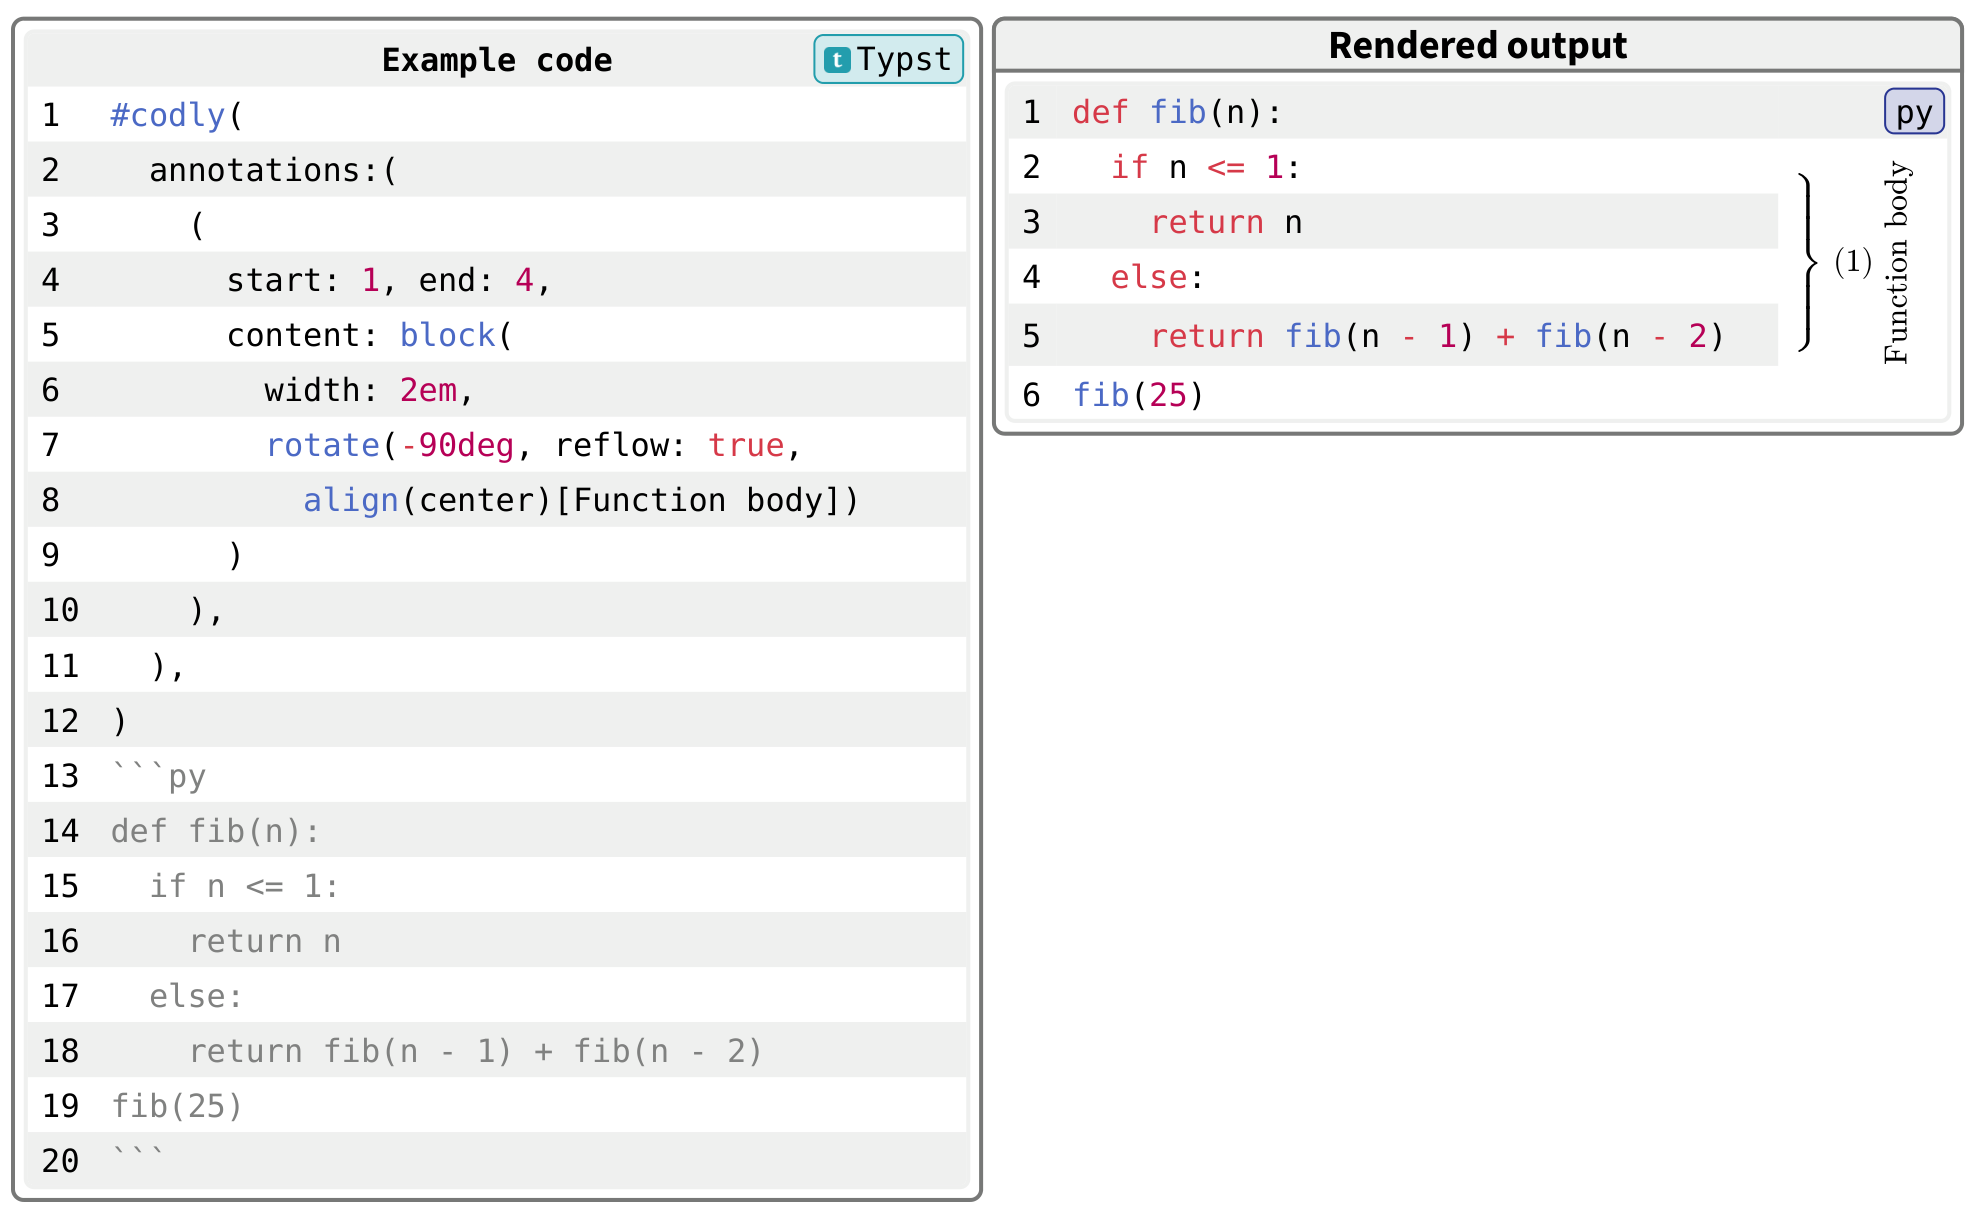
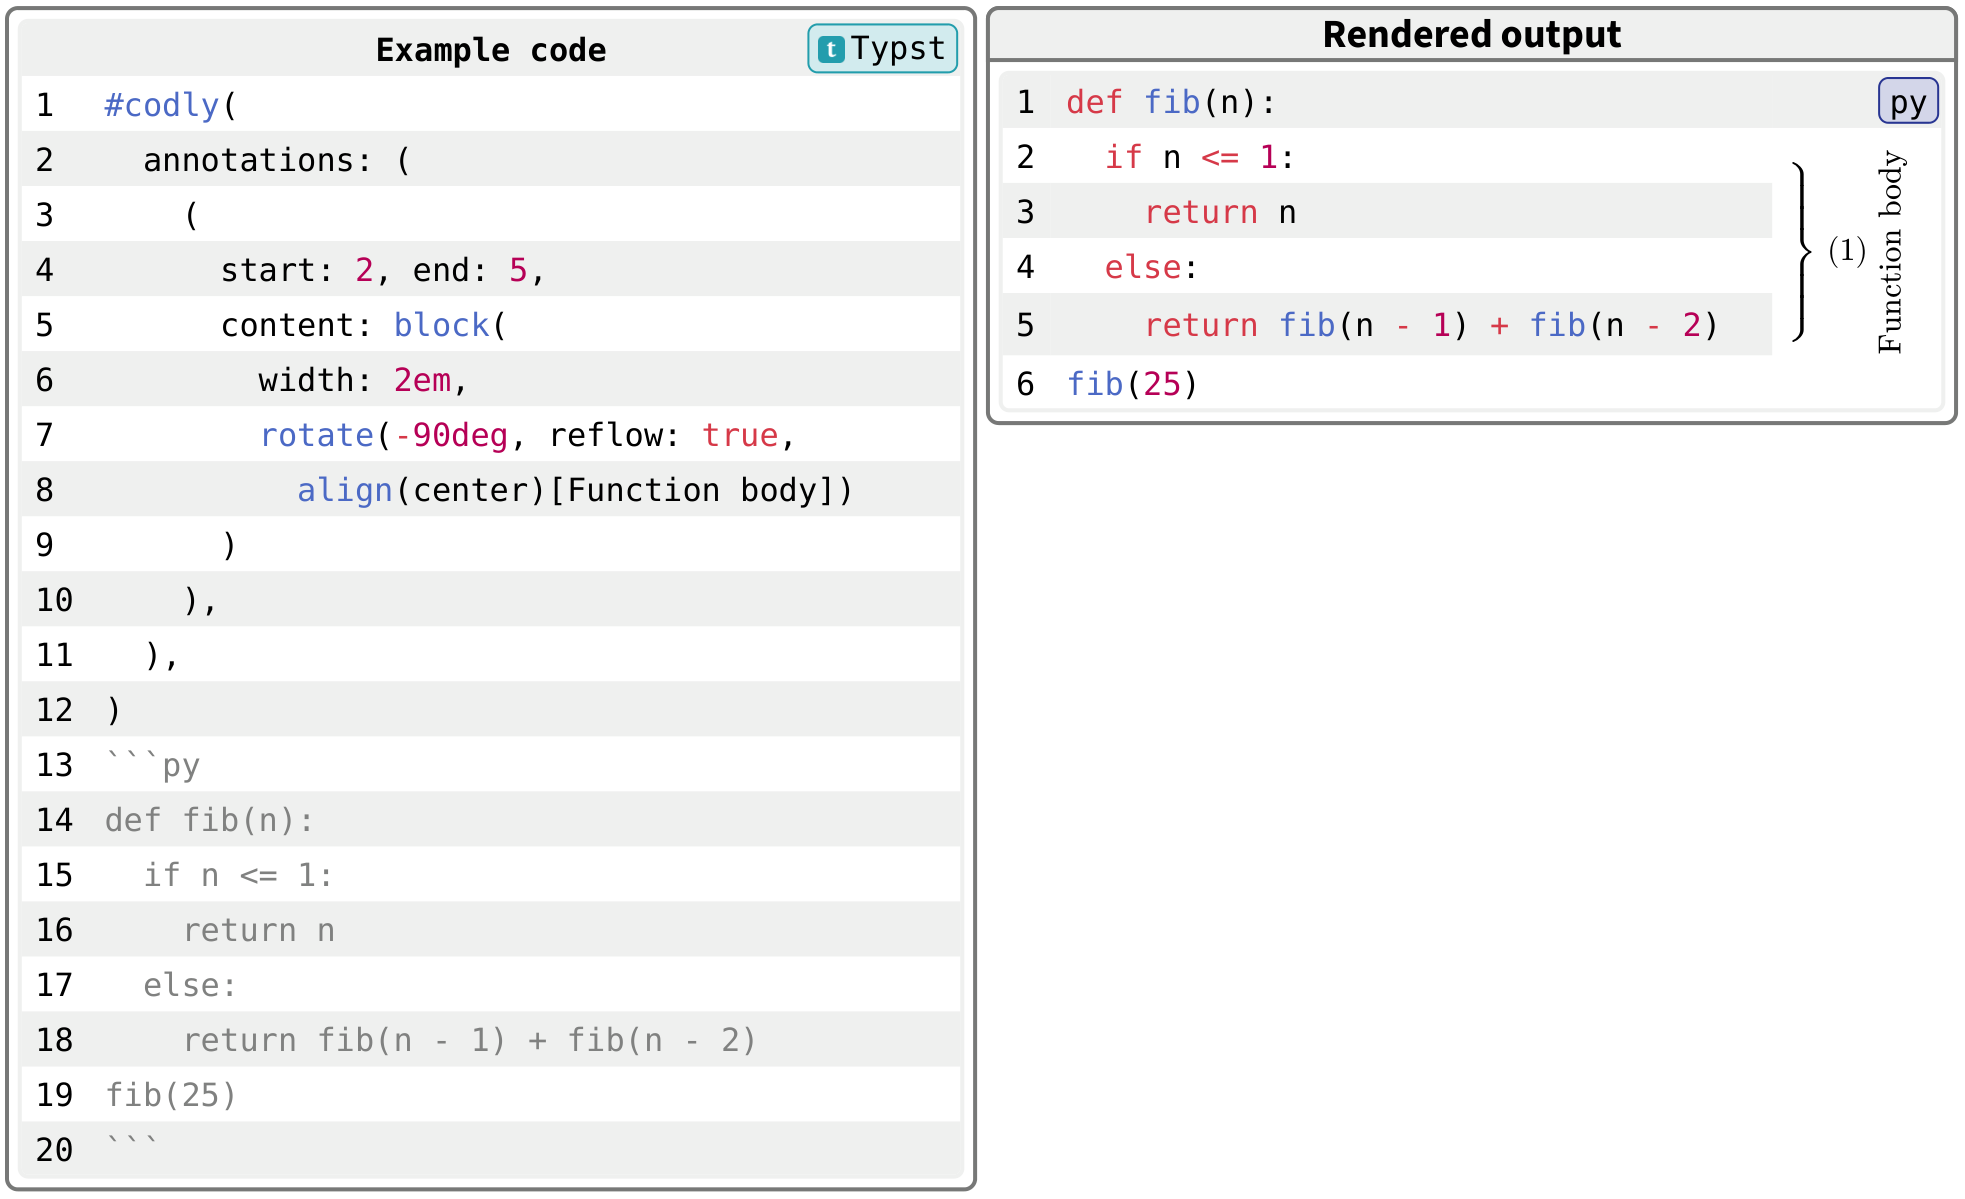
Updated README.md

diff --git a/README.md b/README.md
@@ -141,7 +141,7 @@ You can add a "fake" skip between lines using the `skips` parameters:
 
 ```typ
 // Before the 5th line (indexing start at 0), insert a 32 line jump.
-#codly(skips: ((4, 32), ))
+#codly(skips: ((5, 32), ))
 ```
 The code inside your block will be the same (except for the added line containing the … character), but the line numbers will be adjusted to reflect the skip. 
 
@@ -153,9 +153,9 @@ You can highlight part of lines using the `highlights` parameters:
 
 ````typ
 #codly(highlights: (
-  (line: 3, start: 2, end: none, fill: red),
-  (line: 4, start: 13, end: 19, fill: green, tag: "(a)"),
-  (line: 4, start: 26, fill: blue, tag: "(b)"),
+  (line: 4, start: 2, end: none, fill: red),
+  (line: 5, start: 13, end: 19, fill: green, tag: "(a)"),
+  (line: 5, start: 26, fill: blue, tag: "(b)"),
 ))
 ```py
 def fib(n):
@@ -178,7 +178,7 @@ You can annotate a line/group of lines using the `annotations` parameters :
 #codly(
   annotations: (
     (
-      start: 1,
+      start: 2,
       end: 4,
       content: block(
         width: 2em,
